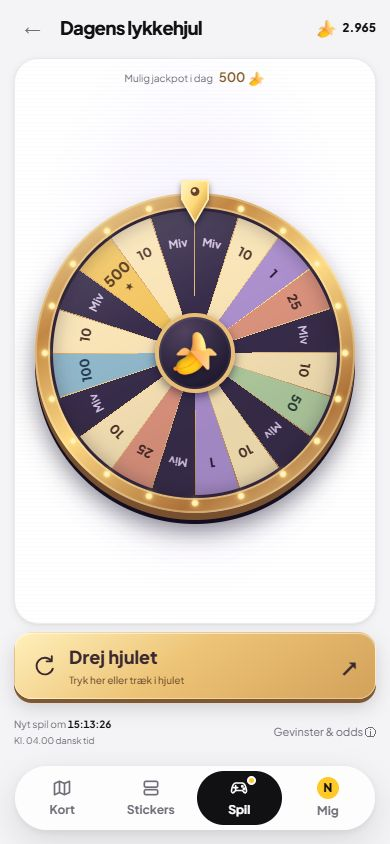
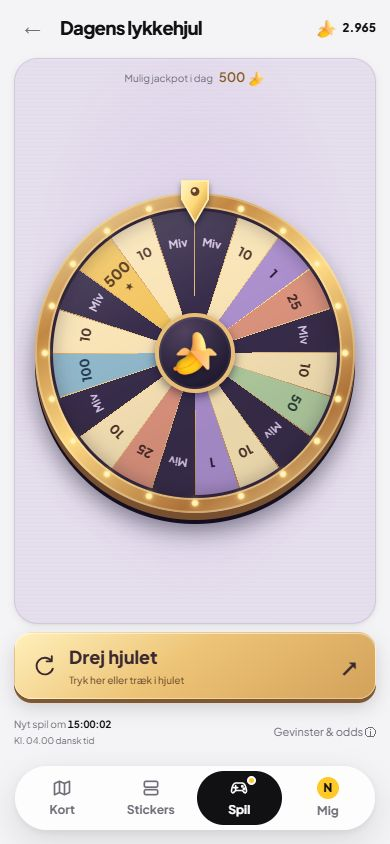
Soften light wheel background with lavender tones

diff --git a/app/pages/spil/hjulet.vue b/app/pages/spil/hjulet.vue
@@ -347,10 +347,10 @@ header p {
   color: var(--muted);
 }
 .arcade {
-  --wheel-glow: #b999ff26;
+  --wheel-glow: #b794dc38;
   --wheel-texture: #57417006;
-  --wheel-surface: var(--surface);
-  --wheel-border: var(--hairline);
+  --wheel-surface: #e5deed;
+  --wheel-border: #ad96c34d;
   --wheel-shadow: var(--shadow-sm);
   --wheel-label: var(--muted);
   --wheel-amount: #825a21;
